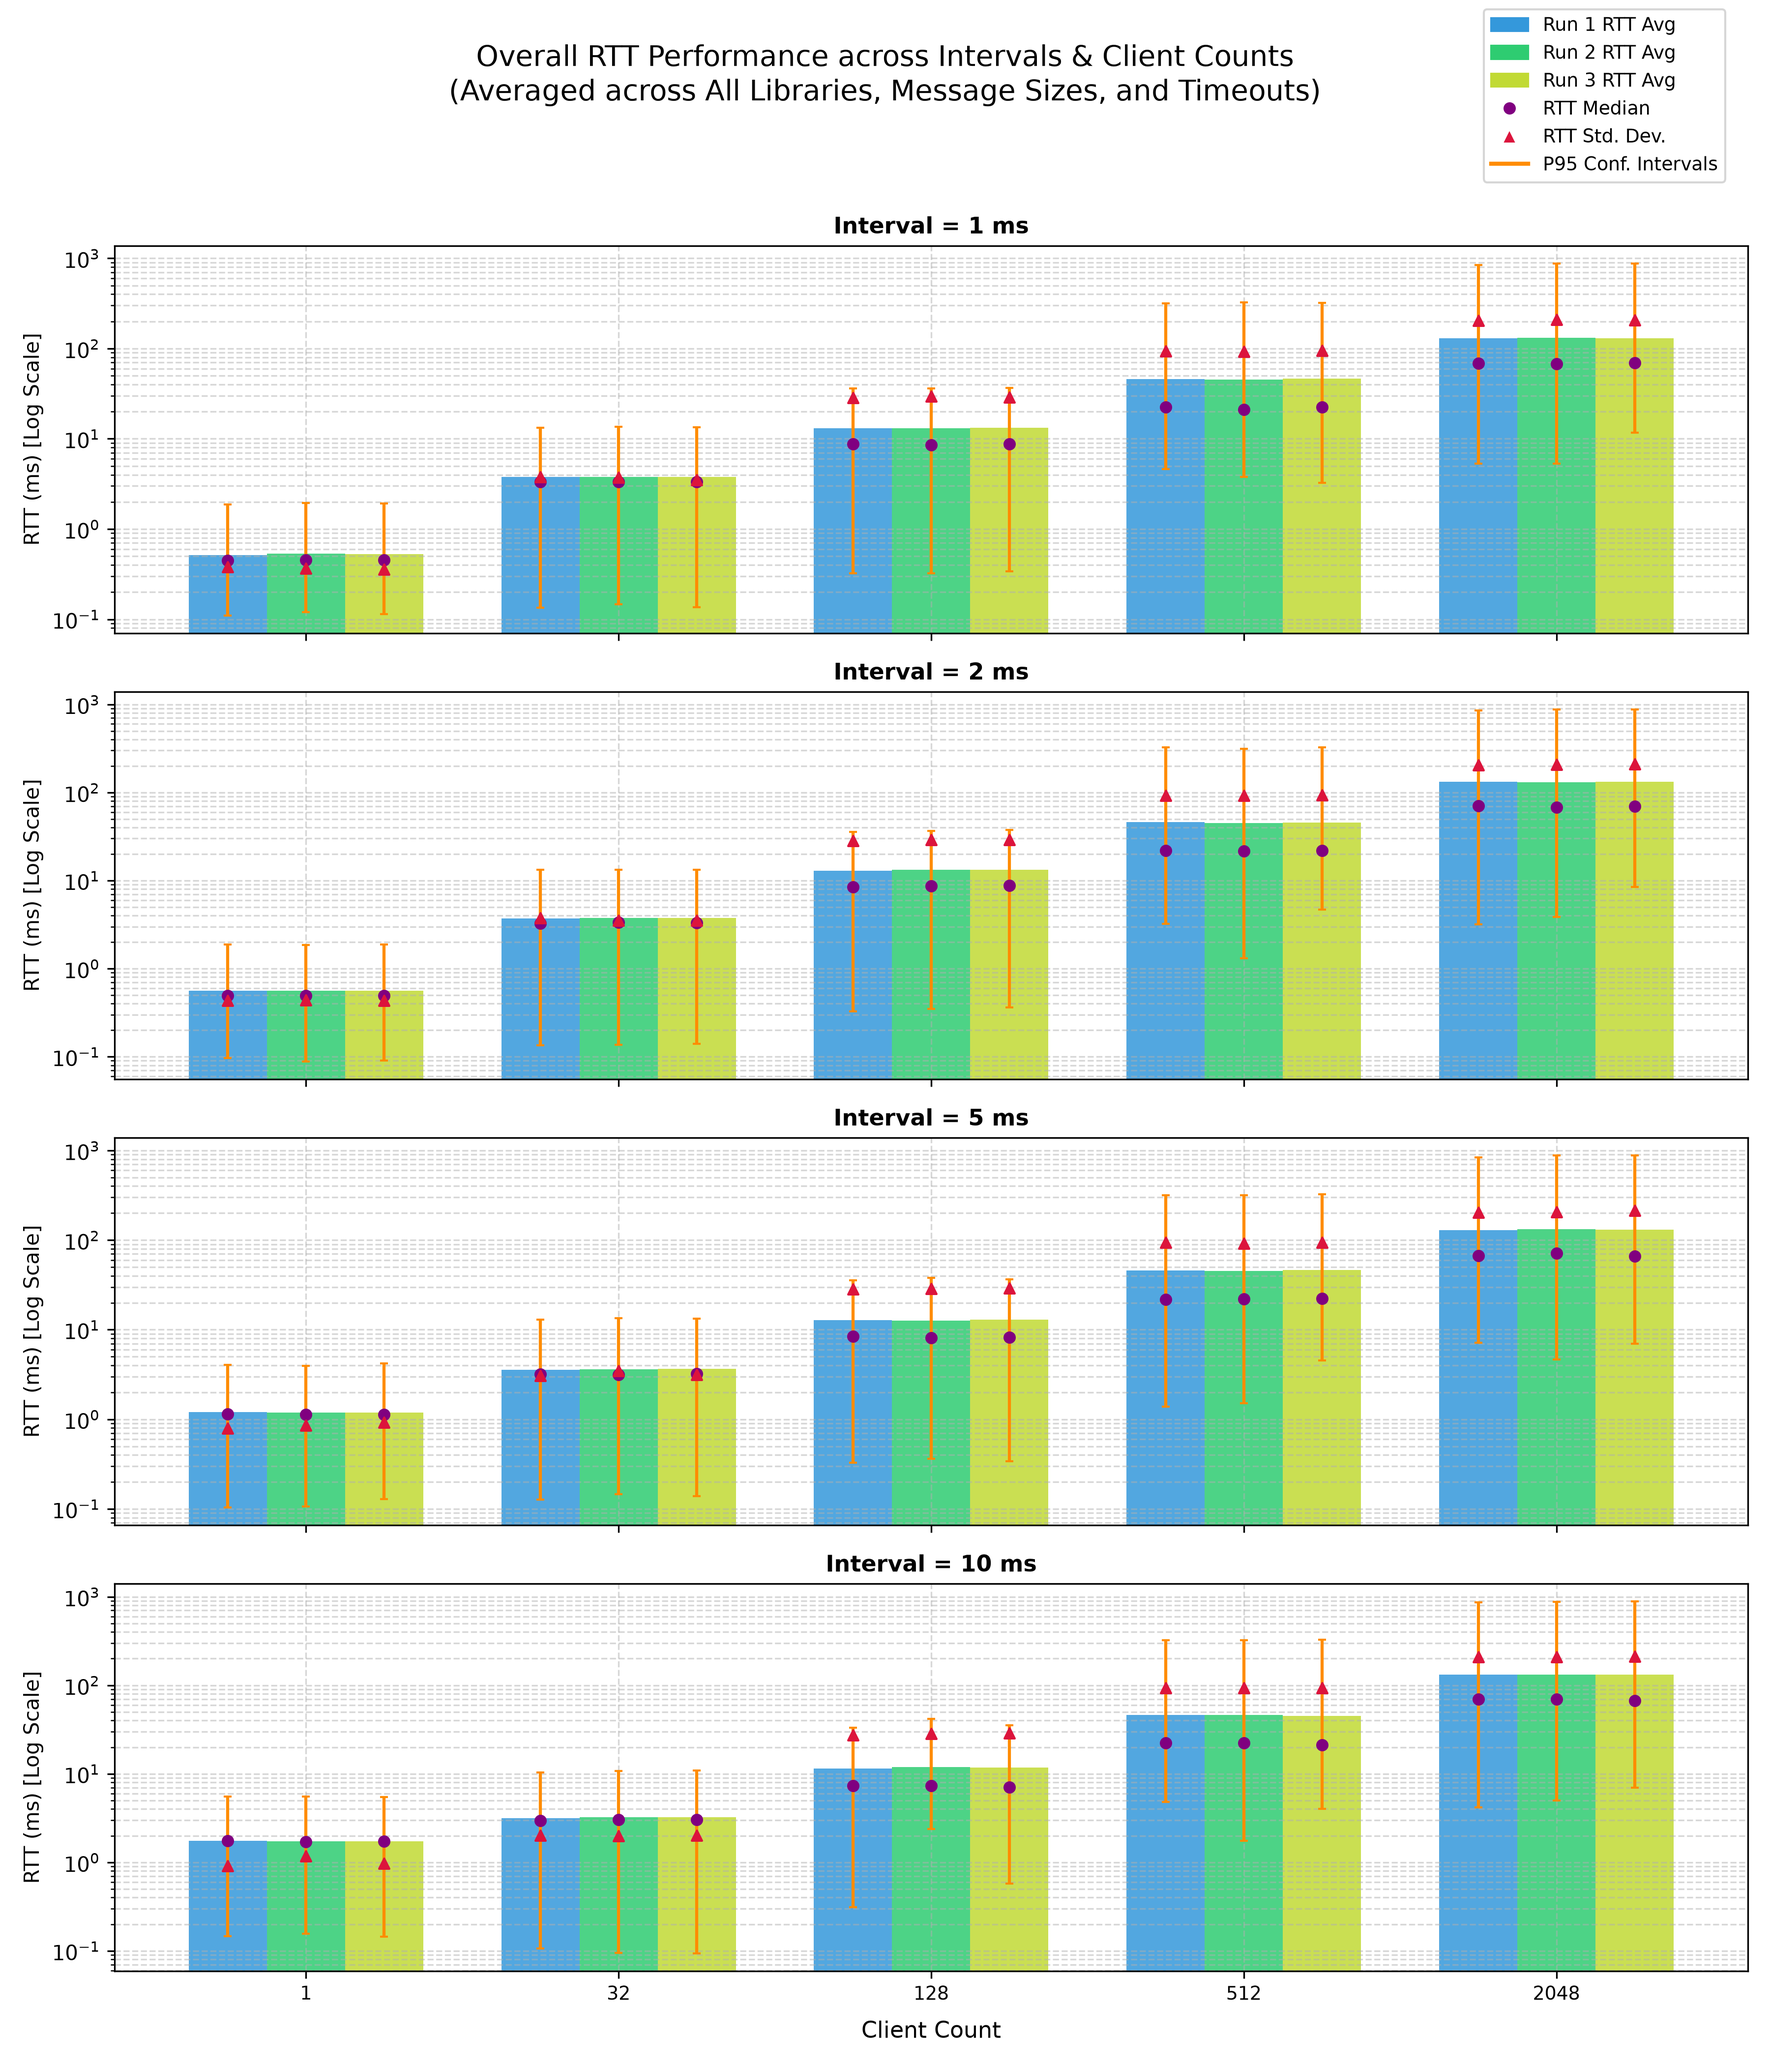
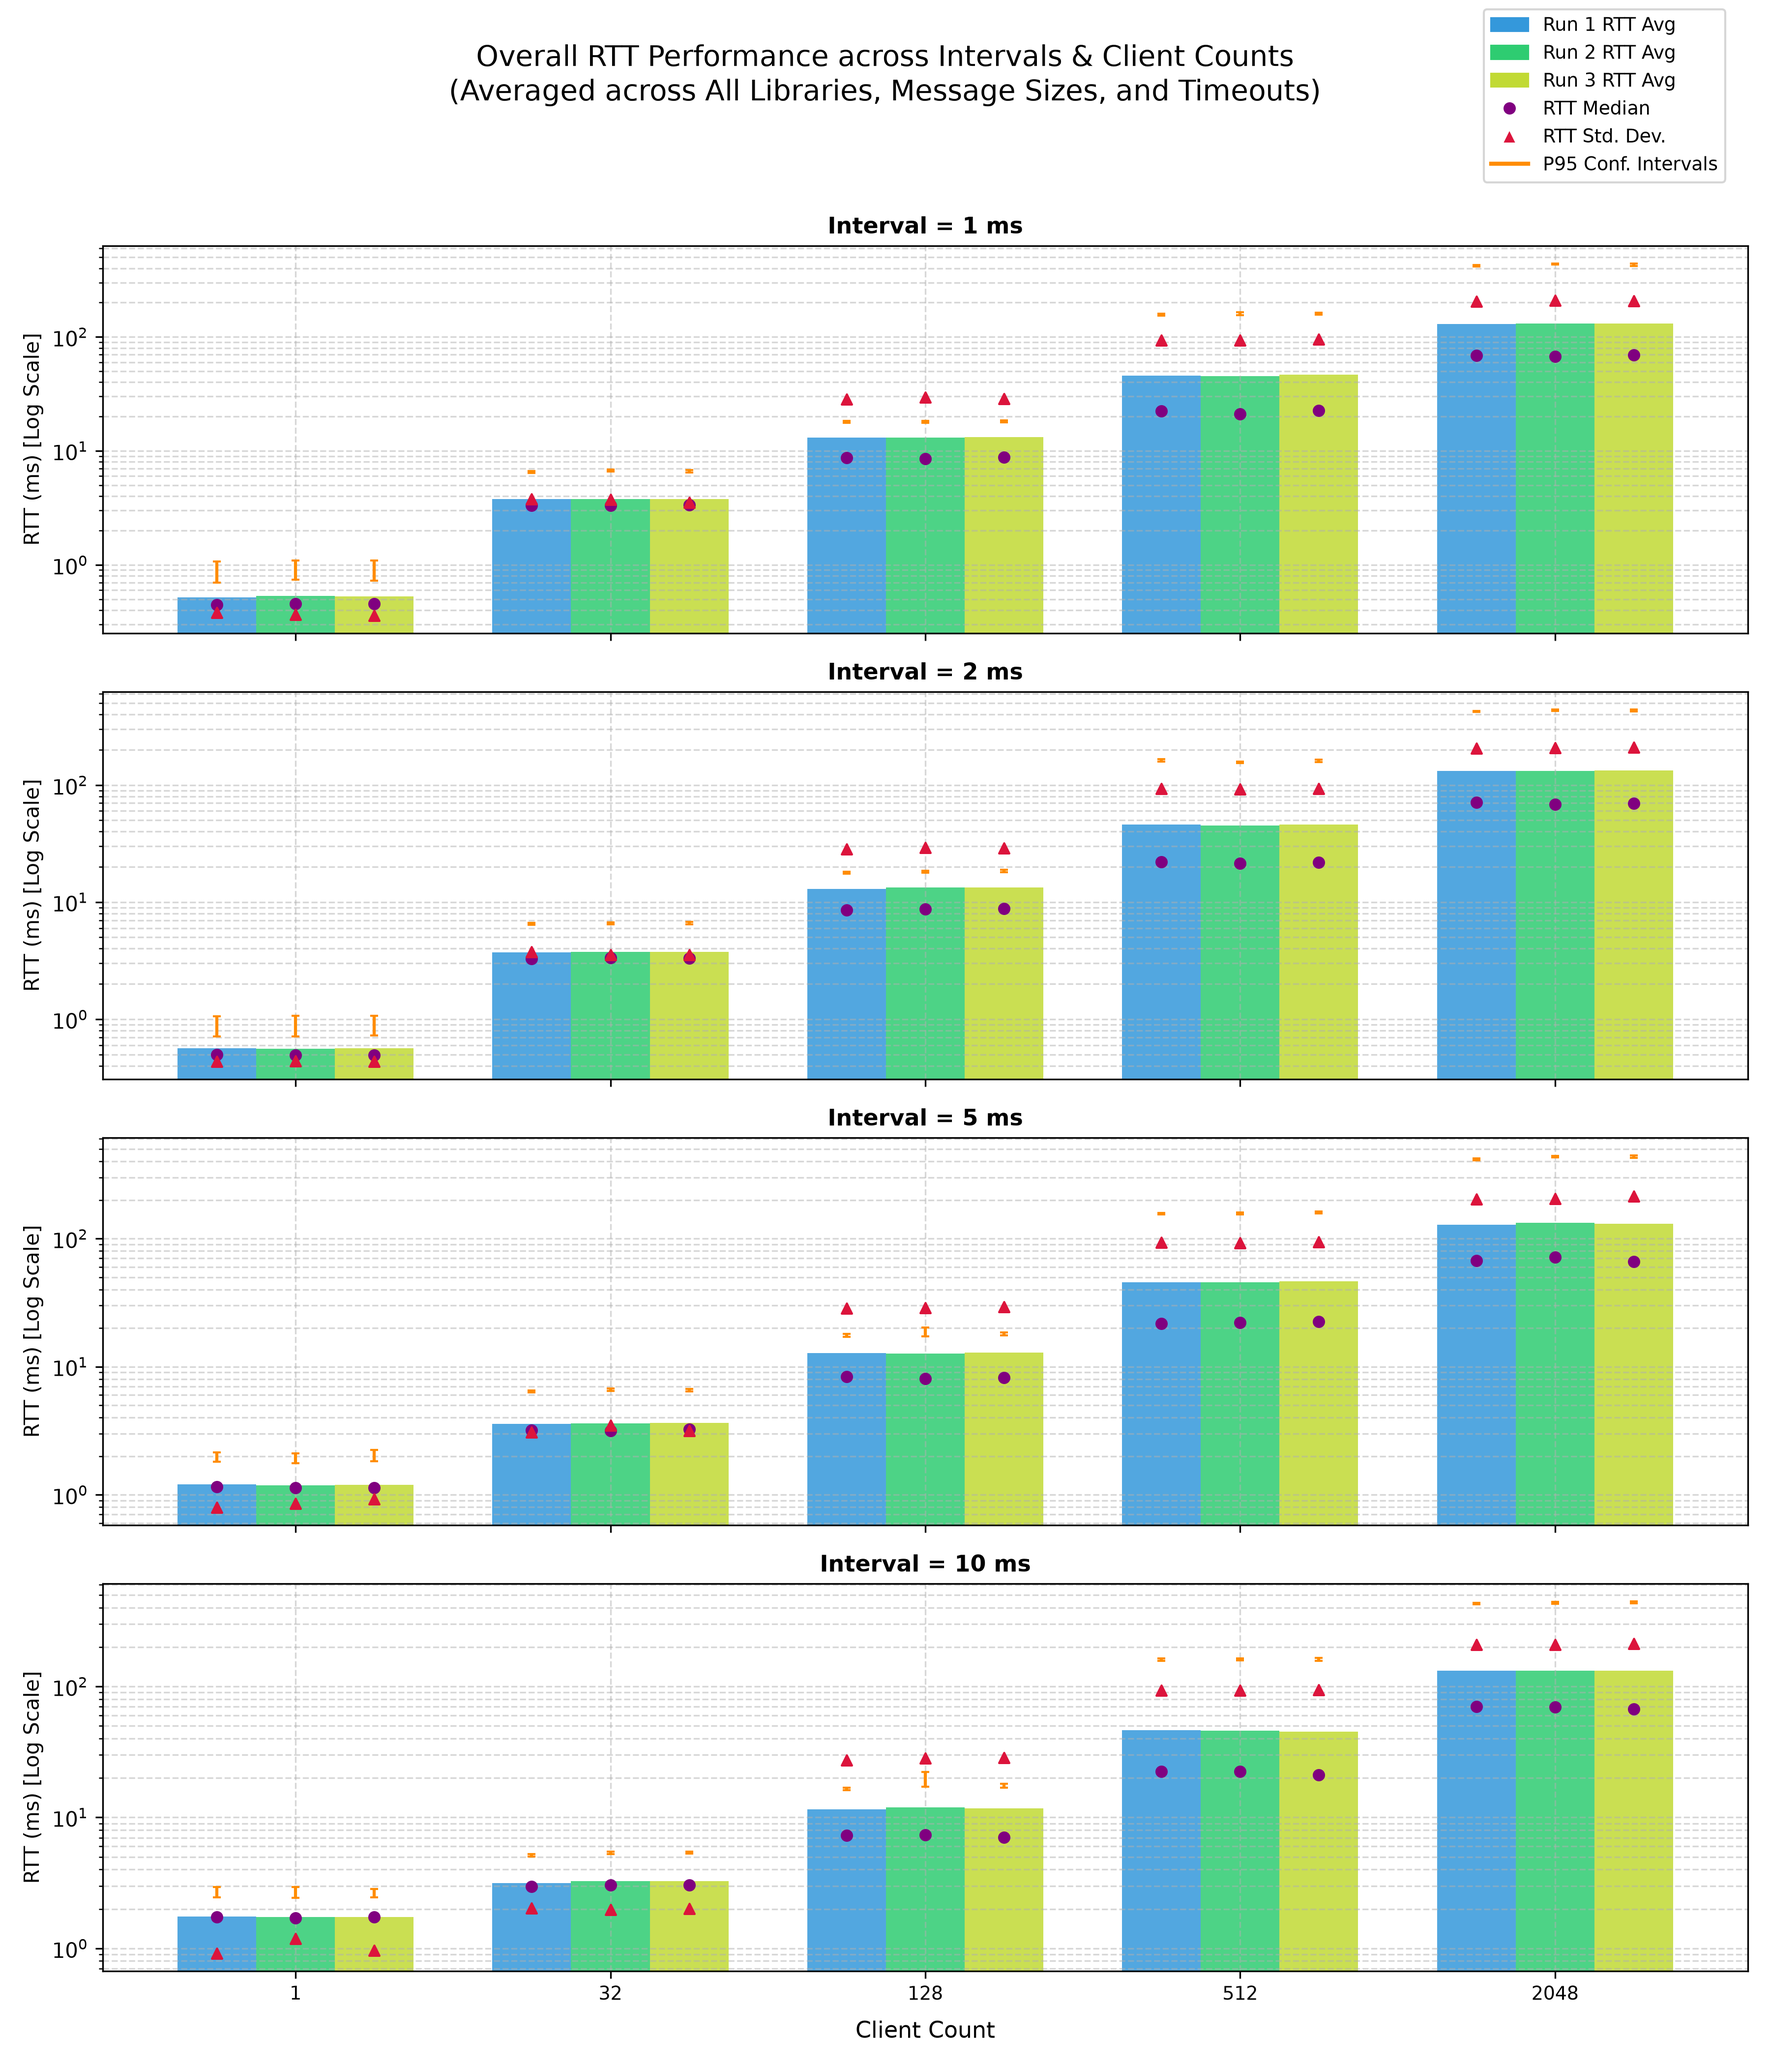
Add files via upload

Changed region(s): [[0.0311, 0.0936, 0.9956, 0.9981]]

diff --git a/analysis/run_variability.py b/analysis/run_variability.py
@@ -78,11 +78,14 @@ for idx, interval in enumerate(intervals):
         alpha=0.85,
     )
 
-    # P95 CI Whiskers
-    p95_err = [
-        mid_data["P95_Lower"], # mid_data["P95"] - mid_data["P95_Lower"],
-        mid_data["P95_Upper"] # - mid_data["P95"],
-    ]
+    p95_lower_error = mid_data["P95"] - mid_data["P95_Lower"]
+    p95_upper_error = mid_data["P95_Upper"] - mid_data["P95"]
+
+    p95_err = np.vstack([
+        p95_lower_error,
+        p95_upper_error,
+    ])
+
     ax.errorbar(
         bar_x,
         mid_data["P95"],
